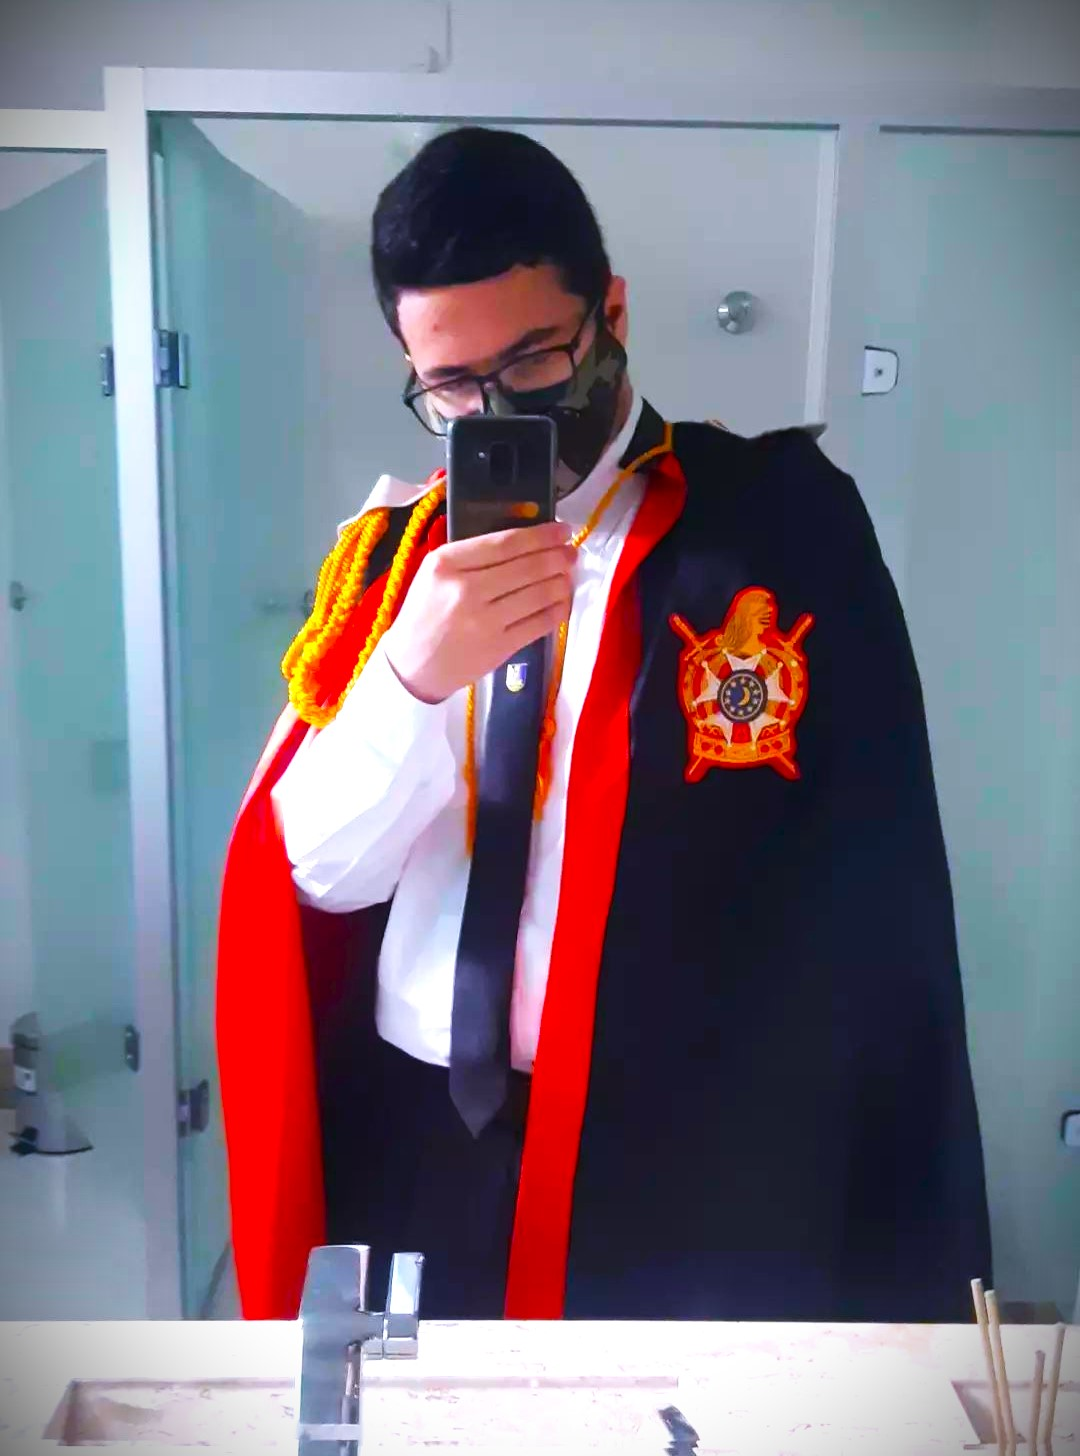
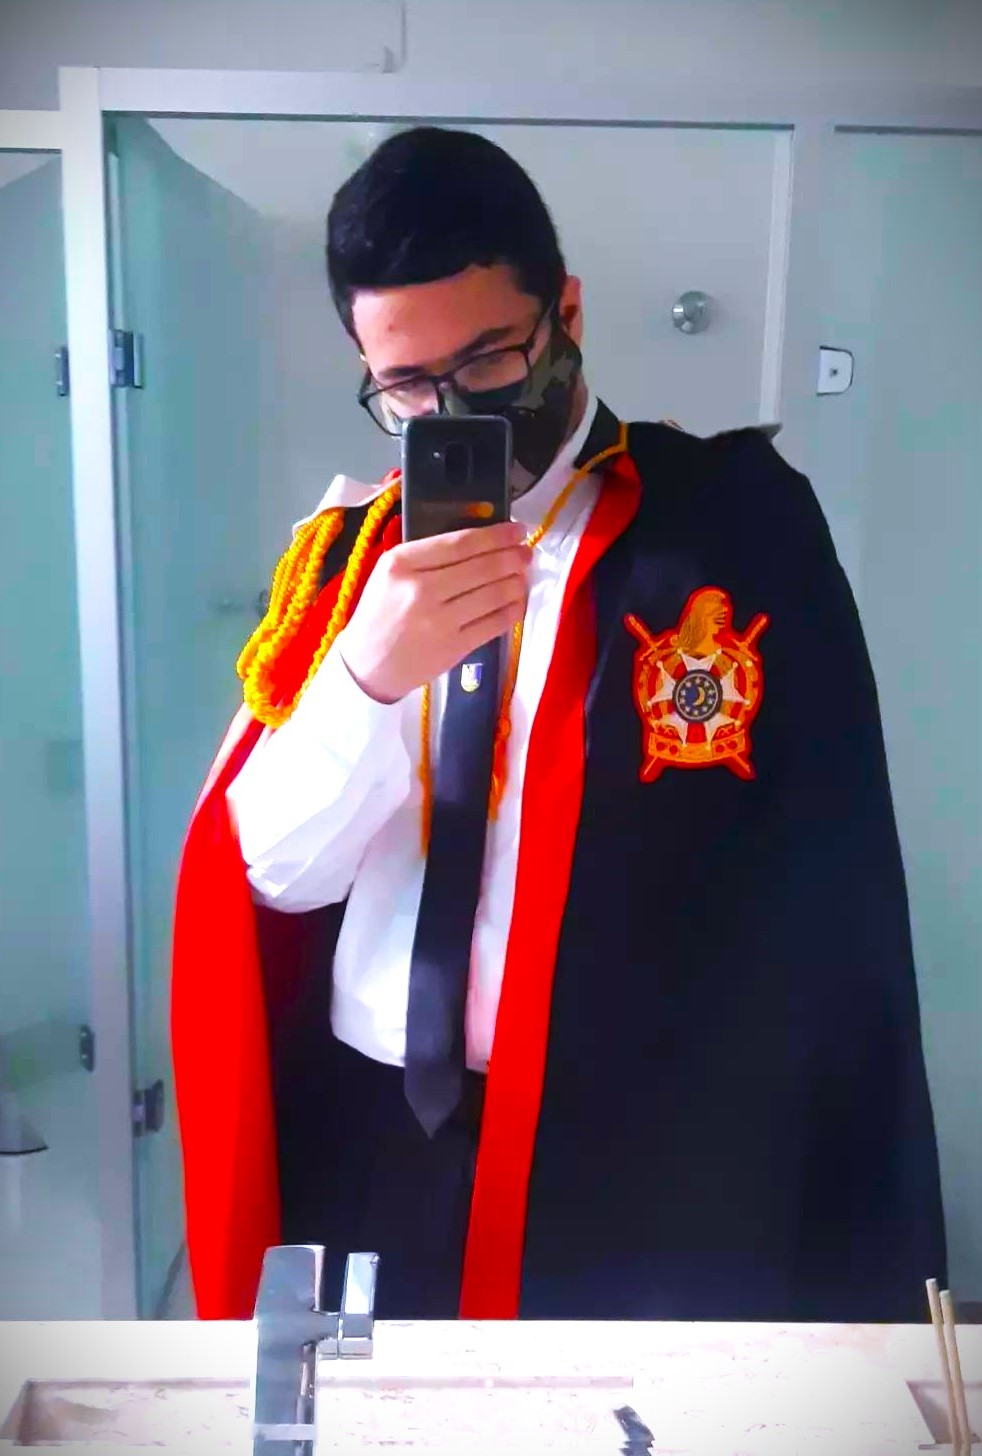
Mensagem de commit descrevendo as alterações

diff --git a/Untitled-1.html b/Untitled-1.html
@@ -1,38 +1,38 @@
-<!DOCTYPE html>
-<html lang="pt">
-<head>
-    <meta charset="UTF-8">
-    <meta http-equiv="X-UA-Compatible" content="IE=edge">
-    <meta name="viewport" content="width=device-width, initial-scale=1.0">
+    <!DOCTYPE html>
+    <html lang="pt">
+    <head>
+        <meta charset="UTF-8">
+        <meta http-equiv="X-UA-Compatible" content="IE=edge">
+        <meta name="viewport" content="width=device-width, initial-scale=1.0">
 
-    <title>Portifolio</title>
-    <link rel="stylesheet" href="gustavo.css"> 
-</head>
+        <title>Portifolio</title>
+        <link rel="stylesheet" href="gustavo.css"> 
+    </head>
 
-<body>
-    <header>   </header>
-    <main class="apresentacao"> 
+    <body>
+        <header>   </header>
+        <main class="apresentacao"> 
 
-        <section class="apresentacao__conteudo"> 
+            <section class="apresentacao__conteudo"> 
 
-           <h1 class="apresentacao__conteudo__titulo">Olá, meu nome é <span class="destaque"> Gustavo!</span> sou estudante de sistemas de informação no quinto semestre da faculdade, 
-            <span class="destaque">  Clique no botão para conferir o meu Linkedin e Github! </span> </h1>   
-            <p class="apresentacao__conteudo__texto"> Meu nome é <span class=" destaque">  Gustavo Oliveira Nunes</span>, moro em Brasília-DF e estudo Front-End pela Alura, clique 
-                nos botões para conferir um pouco mais do meu trabalho, procuro vagas de estágio ou emprego CLT.
+            <h1 class="apresentacao__conteudo__titulo">Olá, meu nome é <span class="destaque"> Gustavo!</span> sou estudante de sistemas de informação no quinto semestre da faculdade, 
+                <span class="destaque">  Clique no botão para conferir o meu Linkedin e Github! </span> </h1>   
+                <p class="apresentacao__conteudo__texto"> Meu nome é <span class=" destaque">  Gustavo Oliveira Nunes</span>, moro em Brasília-DF e estudo Front-End pela Alura, clique 
+                    nos botões para conferir um pouco mais do meu trabalho, procuro vagas de estágio ou emprego CLT.
+                        
                     
-                
-                <br>
-                <br> 
+                    <br>
+                    <br> 
 
-                <div class="apresentacao__links">
-                    <a href="https://github.com/GustavoNunes45" class="apresentacao__links__link" target="_blank"> GIT HUB </a>
-                
-             <a href="https://www.linkedin.com/in/gustavo-nunes-2b3457210/" class="apresentacao__links__link" target="_blank"> LINKEDIN </a>
-                </div>
-         </section>
+                    <div class="apresentacao__links">
+                        <a href="https://github.com/GustavoNunes45" class="apresentacao__links__link" target="_blank"> GIT HUB </a>
+                    
+                <a href="https://www.linkedin.com/in/gustavo-nunes-2b3457210/" class="apresentacao__links__link" target="_blank"> LINKEDIN </a>
+                    </div>
+            </section>
 
-     <img src="Gustavo.jpg" alt="foto minha " width="605" height="602" class="filtro_verde">
-    </main>  
-    <footer>  </footer>
-</body>
-</html>  
+            <a href="https://www.instagram.com/gustavoolinunes3/" target="_blank"><img src="Gustavo.jpg" alt="foto minha " width="490" height="622" class="filtro_verde" ></a>
+        </main>  
+        <footer>  </footer>
+    </body>
+    </html>  

diff --git a/gustavo.css b/gustavo.css
@@ -14,8 +14,15 @@ body {
  background-size: cover;
  text-shadow: 12px 1px px #000;
  backdrop-filter: blur(4px);
+ display: flex;
+ justify-content: center;
+ align-items: center;
 }
 
+html, body {
+    height: 100%;
+    overflow: hidden;
+  }
 
 .destaque{
     color: rgb(44, 213, 114);
